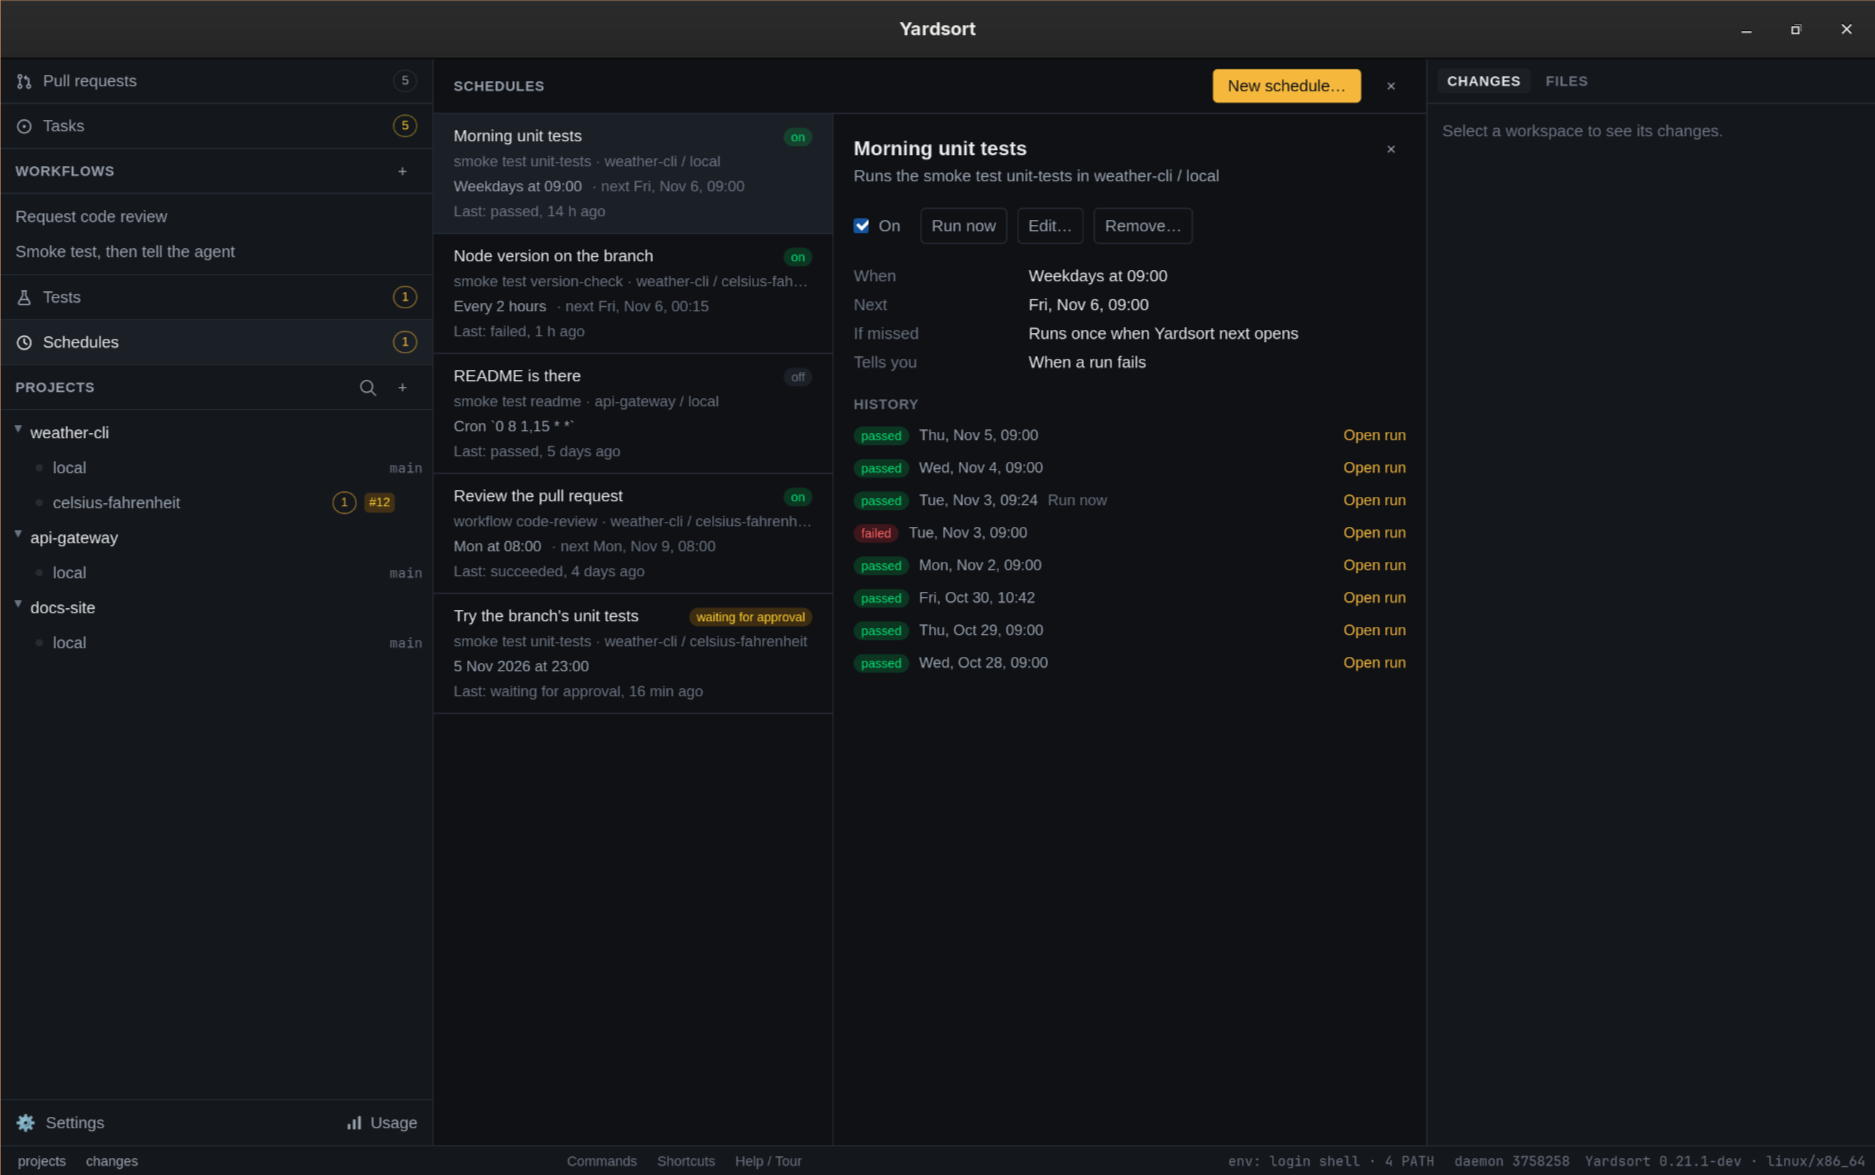
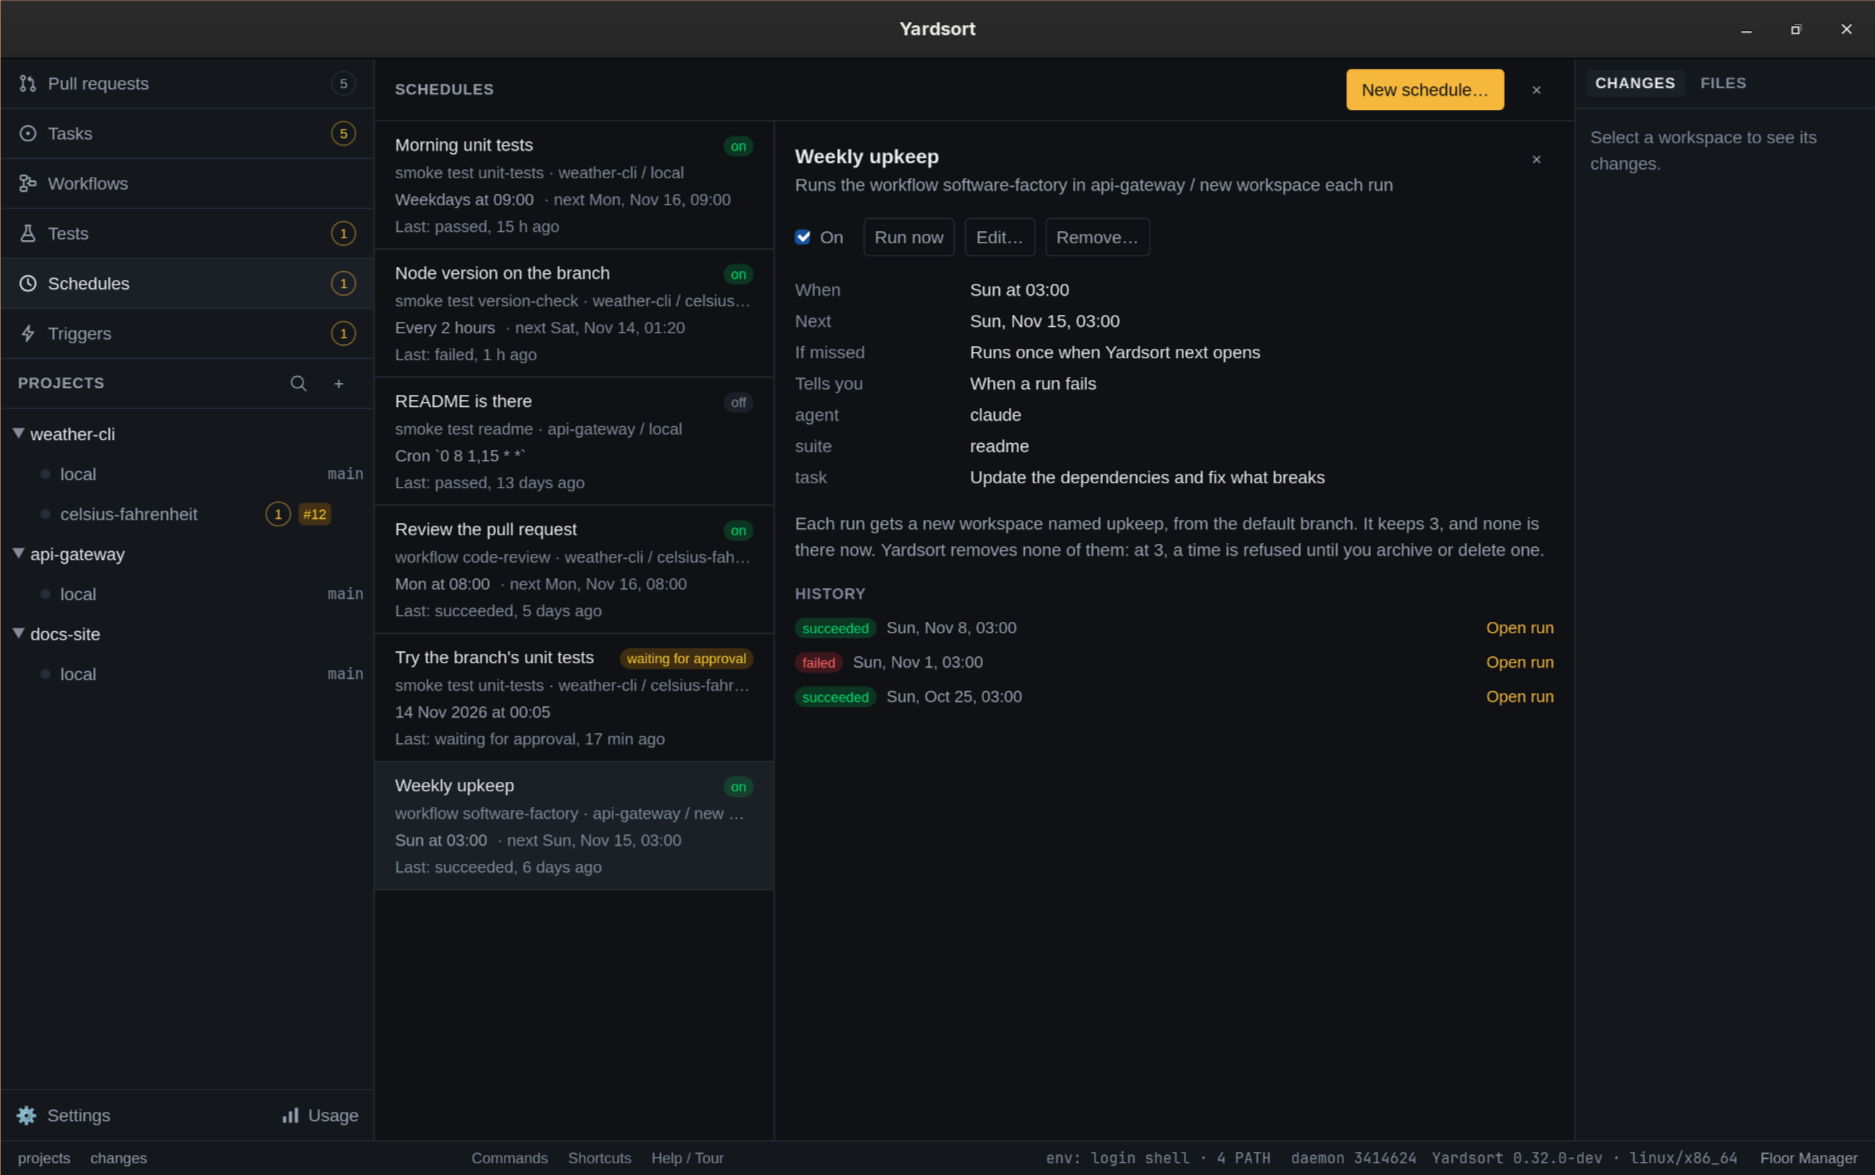
Docs: retake the Schedules and Run dialog screenshots (#252)
* Docs: retake the Schedules and Run dialog screenshots

The Schedules shot opens a schedule that makes a new workspace for each
run, and the Run dialog shot shows the workflow page as it is now. A
third shot, in the guide's "In a new workspace" section, shows the Run
dialog with a new workspace chosen in a project.

`scripts/screenshots.sh seed` writes a sixth schedule for it, with the
columns migration 0041 added.

* README and landing page: a schedule can make a workspace for each run

The retaken Schedules shot sits beside copy that still said a schedule
runs only in a workspace you already have. Both now say a workflow's
schedule can make a new one for each run, and the image's alt text says
what the shot shows. The image files need no second copy: the site
copies docs/images at build.

---------

diff --git a/website/src/components/landing/ideas.tsx b/website/src/components/landing/ideas.tsx
@@ -317,15 +317,15 @@ export function Ideas() {
           shot={
             <Shot
               name="schedules"
-              alt="Schedules: every project's schedules in one list, each with what it runs, when, and how its last time went, and one open with its history"
+              alt="Schedules: every project's schedules in one list, each with what it runs, when, and how its last time went, and one open that makes a new workspace for each run, with how many it keeps and its history"
             />
           }
         >
           <p>
             A schedule starts a workflow or a smoke test without you pressing Run: once at a time
             you pick, or again and again — every weekday at nine, every two hours, a cron
-            expression. It runs in a workspace you already have, and what it starts is an ordinary
-            run, marked as scheduled.
+            expression. It runs in a workspace you already have, or for a workflow in a new one made
+            for each run, and what it starts is an ordinary run, marked as scheduled.
           </p>
           <p>
             Schedules fire while Yardsort is open. A time that comes while it is closed, or while

diff --git a/README.md b/README.md
@@ -90,8 +90,8 @@ It is modeled on tools like Conductor and Superset, with the requirement they do
   [More below](#smoke-tests-the-ten-minute-check-repeatable).
 - **Schedules: at a set time, or on a routine.** Run a workflow or a smoke test once at a time
   you pick, or again and again — every weekday at nine, every two hours, a cron expression — in
-  a workspace you already have, while Yardsort is open. A notification tells you when a run
-  fails. [Schedules](docs/guide/schedules.md).
+  a workspace you already have, or for a workflow in a new one made for each run, while Yardsort
+  is open. A notification tells you when a run fails. [Schedules](docs/guide/schedules.md).
 - **Triggers: when something happens.** Start a workflow or a smoke test when an agent says its
   work is done, someone reviews the pull request, its checks fail, a run ends, or something you
   name happens. Ready-made ones — address reviews, fix failing checks, review or smoke test the
@@ -449,9 +449,11 @@ tell the agent** does both.
 
 A test or a workflow can also run on a [schedule](docs/guide/schedules.md): once at a time you
 pick, or on a routine such as every weekday at nine, in a workspace you already have, while
-Yardsort is open.
+Yardsort is open. A workflow's schedule can instead make a new workspace for each run. Yardsort
+never removes those: the schedule keeps up to a number you set, then waits for you to archive or
+delete one.
 
-![Schedules: every project's schedules in one list, each with what it runs, when, and how its last time went, and one open with its history](docs/images/schedules.png)
+![Schedules: every project's schedules in one list, each with what it runs, when, and how its last time went, and one open that makes a new workspace for each run, with how many it keeps and its history](docs/images/schedules.png)
 
 From a terminal:
 

diff --git a/docs/guide/schedules.md b/docs/guide/schedules.md
@@ -129,7 +129,7 @@ Either way the next time is worked out from now.
 
 ## The Schedules view
 
-![The Schedules view: five schedules in a list, each with what it runs, where, when and how its last time went, and one open beside it with its switch, Run now, Edit and Remove, and its history](../images/schedules.png)
+![The Schedules view: six schedules in a list, each with what it runs, where, when and how its last time went, and one open beside it — a workflow that gets a new workspace for each run — with its switch, Run now, Edit and Remove, how many workspaces it keeps, and its history](../images/schedules.png)
 
 Each row shows the schedule's name, what it runs and where, when in words, the next time it
 fires, how its last time went, and where it stands:

diff --git a/docs/guide/workflows.md b/docs/guide/workflows.md
@@ -302,6 +302,8 @@ ys workflow run fix-tests --project app --name nightly-fix --base release --inpu
 
 It prints the workspace it made, with its branch and folder, and then the run.
 
+![The Run dialog for Software factory with a new workspace chosen in api-gateway: its name, the branch it starts from, what to build, who does the work and the smoke test to run](../images/workflow-run-new-workspace.png)
+
 Everything is checked before the workspace is made, so a run that is refused leaves no branch
 and no folder behind. Three things are different from a run in a workspace that was there:
 

diff --git a/docs/design/34-schedules.md b/docs/design/34-schedules.md
@@ -364,7 +364,7 @@ for, through the call a workflow's `notify` step already uses. macOS and Windows
 tests in CI only.
 
 The view's shot (`docs/images/schedules.png`) is taken on the same throwaway profile.
-`scripts/screenshots.sh seed` writes its five schedules and their history into the database, as
+`scripts/screenshots.sh seed` writes its six schedules and their history into the database, as
 it does the smoke test runs, with times worked out from the moment it is run. They are real
 rows, so an app left open fires them.
 
